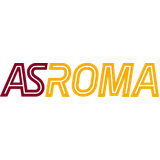
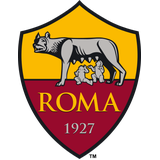
Fix wrong crests: Roma and Liverpool had wordmarks, two clubs had other brands
Marco spotted AS Roma showing a text logo instead of the she-wolf crest. Wikidata
P154 pointed at "AS ROMA Text Logo 2020-2021"; a club's P154 is not always the
badge. Corrected to AS Roma logo (2017).

Scanning every stored crest for wordmark SHAPE -- opaque bounding box wider than
2.2:1, since a badge is roughly square and a wordmark is not -- surfaced 8, of
which 4 were wrong once checked by eye:
  AS Roma          text wordmark  -> she-wolf crest
  Liverpool        "L.F.C." mark  -> liver bird crest
  AEL Larissa      Acerbis, the kit manufacturer  -> cleared
  Viktoria Plzen   Doosan, a sponsor              -> cleared
Brann, Union Berlin, Rodez and KMTK are wide but genuinely those clubs' logos.

Acerbis and Doosan had ALREADY been cleared once and silently came back: the
article scan has no memory of a human decision. refresh_dead_crests now holds any
club whose image_credit records it as deliberately cleared.

download_crests had a matching bug. Clearing crest_file to force a refetch did
nothing, because an existing file on disk made it re-link rather than
re-download -- Roma kept serving the wordmark after its URL was fixed. An empty
crest_file now forces the download.

Caveat worth recording: the shape scan only catches wordmarks. It cannot catch a
plausible-looking wrong badge, which is exactly what Roma's was. The crest set is
mostly right, not verified.

diff --git a/italianstadia/italiastadiaapp/management/commands/refresh_dead_crests.py b/italianstadia/italiastadiaapp/management/commands/refresh_dead_crests.py
@@ -230,6 +230,17 @@ class Command(BaseCommand):
                     return True
                 return not u.endswith((".svg", ".png"))
             targets = [t for t in qs if suspect(t)]
+
+        # A crest deliberately cleared as WRONG must not be re-picked from the same
+        # article on the next run. Acerbis (a kit manufacturer) and Doosan (a
+        # sponsor) were cleared once and silently came back, because the article
+        # scan has no memory of a human decision. image_credit carries that memory.
+        held = [t for t in targets if (t.image_credit or "").startswith("No verified crest")]
+        if held:
+            targets = [t for t in targets if t not in held]
+            self.stdout.write(self.style.WARNING(
+                f"holding {len(held)} club(s) previously cleared as wrong: "
+                + ", ".join(sorted(t.name for t in held)[:8])))
         self.stdout.write(f"{len(targets)} crests to re-source "
                           f"(of {len(qs)} clubs)\n")
 

diff --git a/italianstadia/italiastadiaapp/management/commands/download_crests.py b/italianstadia/italiastadiaapp/management/commands/download_crests.py
@@ -128,10 +128,10 @@ class Command(BaseCommand):
         for t in qs:
             fname = f"{t.slug}.png"
             path = out_dir / fname
-            if path.exists() and not o["force"]:
-                if t.crest_file != fname:
-                    t.crest_file = fname
-                    t.save(update_fields=["crest_file"])
+            # An EMPTY crest_file means the URL was corrected and the file on disk
+            # is stale, so it must be re-downloaded. Re-linking it instead kept AS
+            # Roma showing a text wordmark after its crest had been fixed.
+            if path.exists() and not o["force"] and t.crest_file == fname:
                 skipped += 1
                 continue
 
